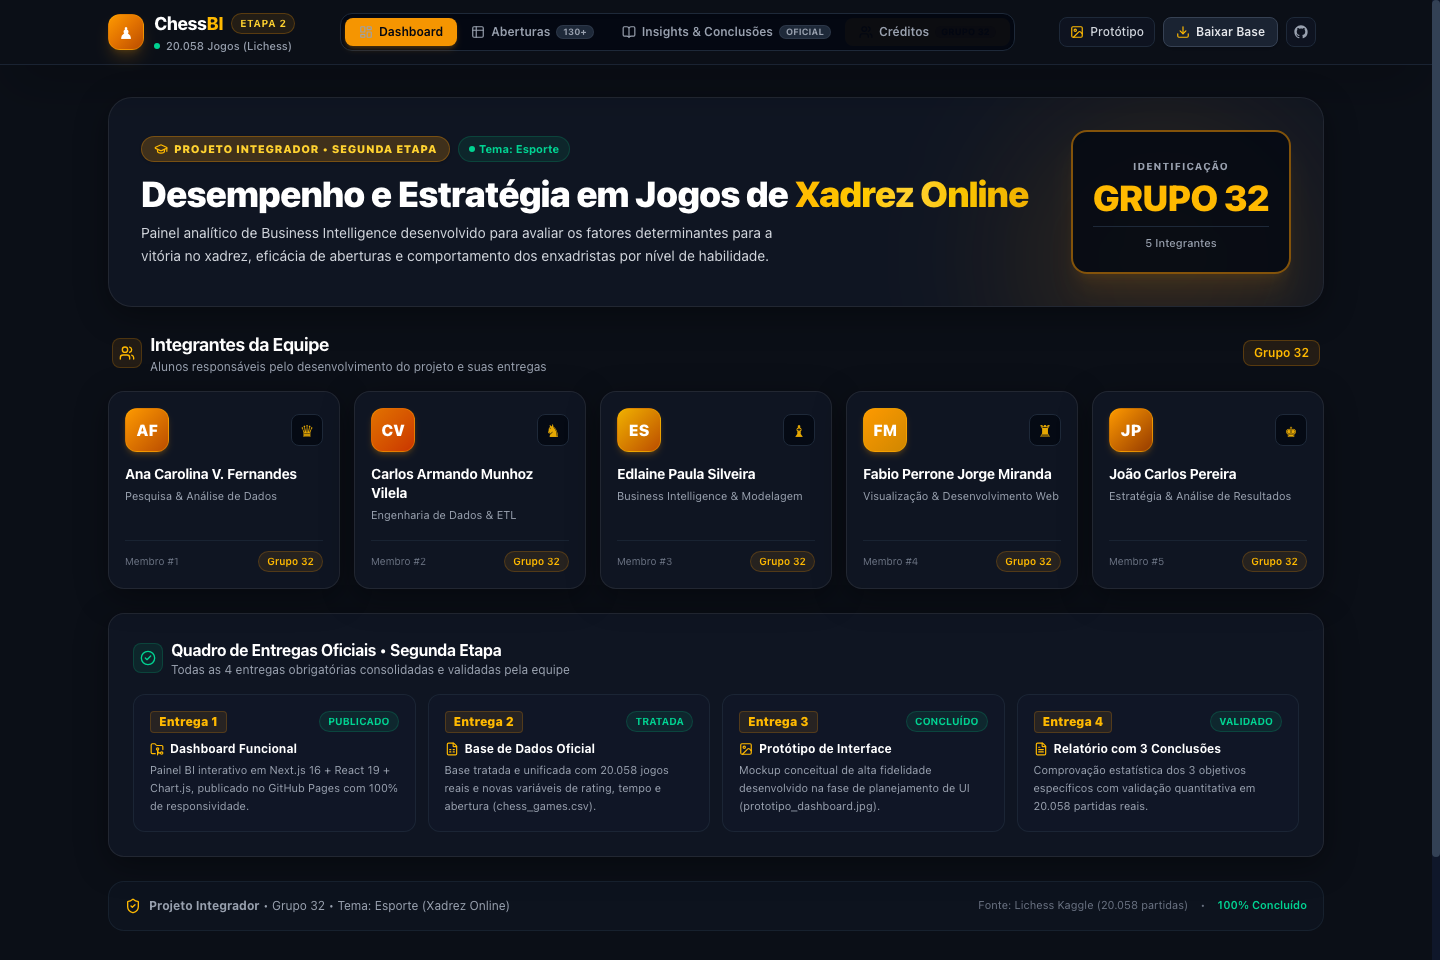
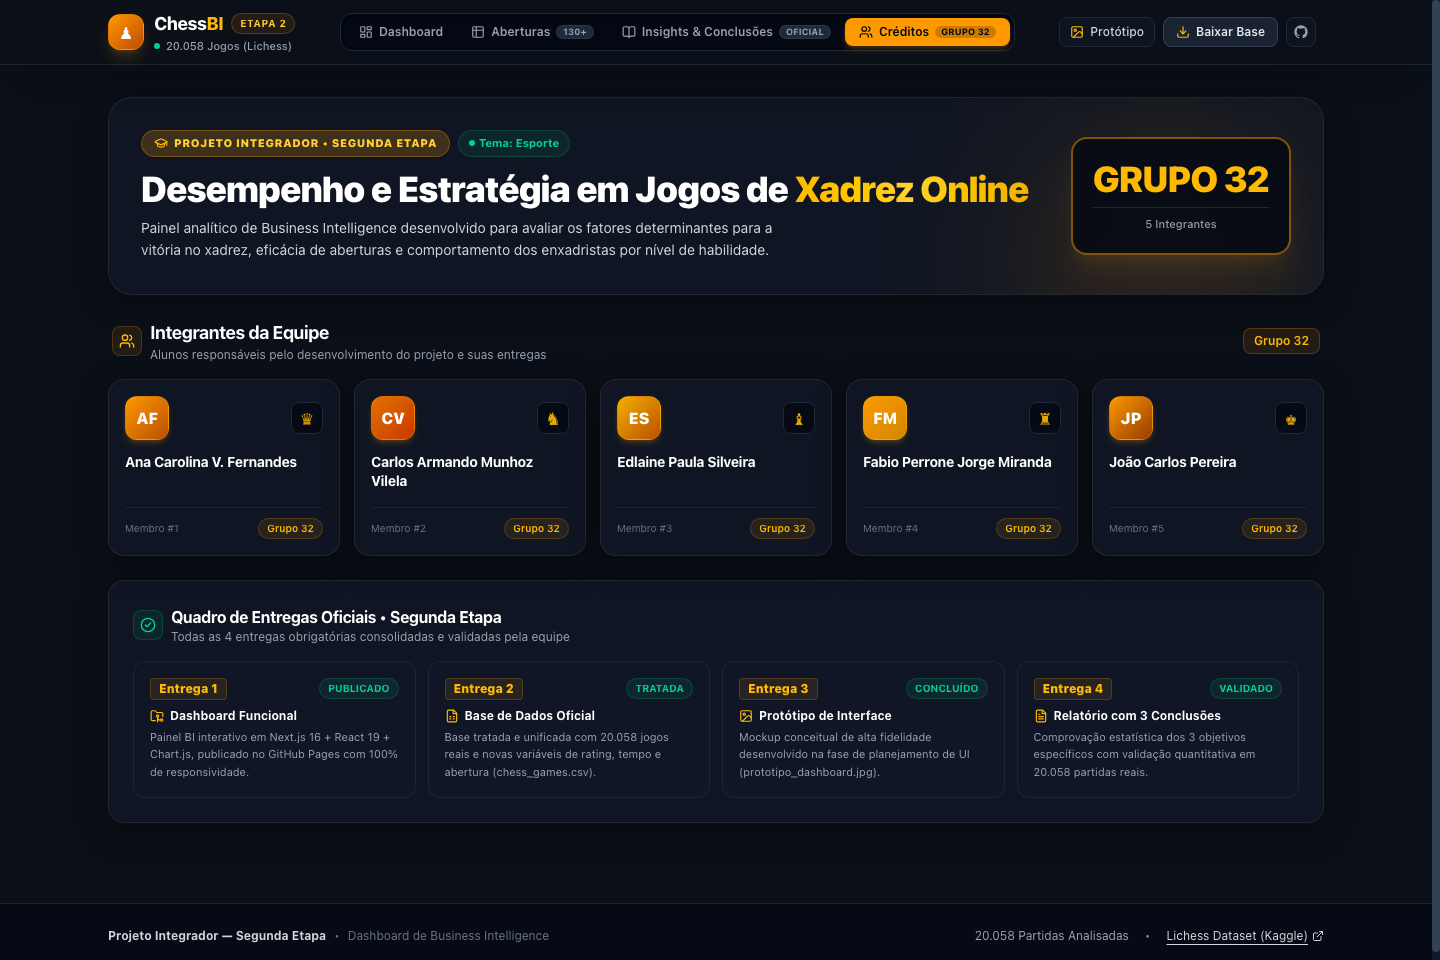
refactor(ui): simplificar pagina de creditos removendo identificacao, cargos e card de conclusao

diff --git a/src/components/CreditsTab.jsx b/src/components/CreditsTab.jsx
@@ -2,51 +2,42 @@
 
 import {
   Users,
-  Award,
   GraduationCap,
-  Sparkles,
   CheckCircle2,
   FolderGit2,
   FileSpreadsheet,
   FileText,
   Image as ImageIcon,
-  ExternalLink,
-  ShieldCheck,
 } from 'lucide-react';
 
 export default function CreditsTab() {
   const teamMembers = [
     {
       name: 'Ana Carolina V. Fernandes',
-      role: 'Pesquisa & Análise de Dados',
       piece: '♛',
       initials: 'AF',
       color: 'from-amber-500 to-amber-700',
     },
     {
       name: 'Carlos Armando Munhoz Vilela',
-      role: 'Engenharia de Dados & ETL',
       piece: '♞',
       initials: 'CV',
       color: 'from-amber-600 to-orange-700',
     },
     {
       name: 'Edlaine Paula Silveira',
-      role: 'Business Intelligence & Modelagem',
       piece: '♝',
       initials: 'ES',
       color: 'from-yellow-500 to-amber-700',
     },
     {
       name: 'Fabio Perrone Jorge Miranda',
-      role: 'Visualização & Desenvolvimento Web',
       piece: '♜',
       initials: 'FM',
       color: 'from-amber-500 to-yellow-600',
     },
     {
       name: 'João Carlos Pereira',
-      role: 'Estratégia & Análise de Resultados',
       piece: '♚',
       initials: 'JP',
       color: 'from-amber-500 to-amber-800',
@@ -120,10 +111,7 @@ export default function CreditsTab() {
           {/* Grupo 32 Spotlight Badge */}
           <div className="shrink-0 self-start md:self-center">
             <div className="p-5 rounded-2xl bg-gray-950/80 border-2 border-amber-500/50 shadow-xl shadow-amber-500/10 text-center min-w-[180px]">
-              <span className="text-[10px] uppercase font-extrabold tracking-widest text-gray-400">
-                Identificação
-              </span>
-              <div className="text-3xl sm:text-4xl font-black text-amber-400 tracking-tight mt-0.5">
+              <div className="text-3xl sm:text-4xl font-black text-amber-400 tracking-tight">
                 GRUPO 32
               </div>
               <div className="mt-2 pt-2 border-t border-gray-800 text-[11px] text-gray-400 font-medium">
@@ -177,11 +165,6 @@ export default function CreditsTab() {
                 <h4 className="text-sm font-bold text-white tracking-tight group-hover:text-amber-300 transition-colors leading-snug">
                   {member.name}
                 </h4>
-
-                {/* Subtitle / Role */}
-                <p className="text-[11px] text-gray-400 mt-1 leading-relaxed">
-                  {member.role}
-                </p>
               </div>
 
               {/* Bottom Tag */}
@@ -240,21 +223,6 @@ export default function CreditsTab() {
               </div>
             );
           })}
-        </div>
-      </div>
-
-      {/* Project Metadata Footer */}
-      <div className="p-4 rounded-2xl bg-gray-900/40 border border-gray-800/60 flex flex-col sm:flex-row items-center justify-between gap-3 text-xs text-gray-400">
-        <div className="flex items-center space-x-2">
-          <ShieldCheck className="w-4 h-4 text-amber-400" />
-          <span>
-            <strong>Projeto Integrador</strong> • Grupo 32 • Tema: Esporte (Xadrez Online)
-          </span>
-        </div>
-        <div className="flex items-center space-x-3 text-[11px] text-gray-500">
-          <span>Fonte: Lichess Kaggle (20.058 partidas)</span>
-          <span>•</span>
-          <span className="text-emerald-400 font-semibold">100% Concluído</span>
         </div>
       </div>
     </div>
